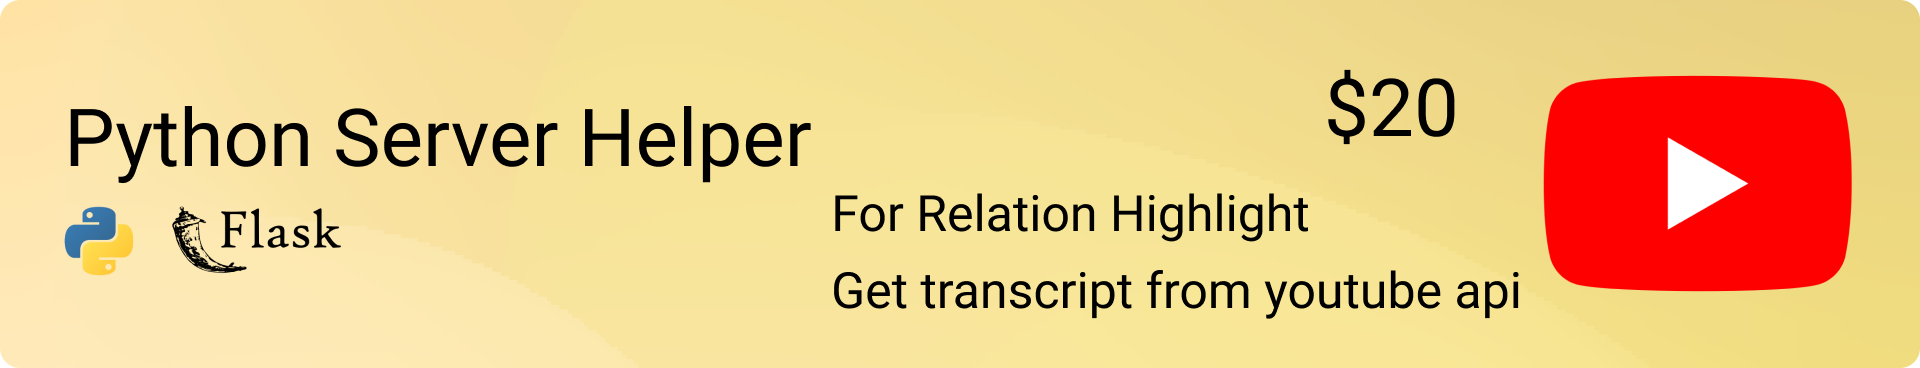
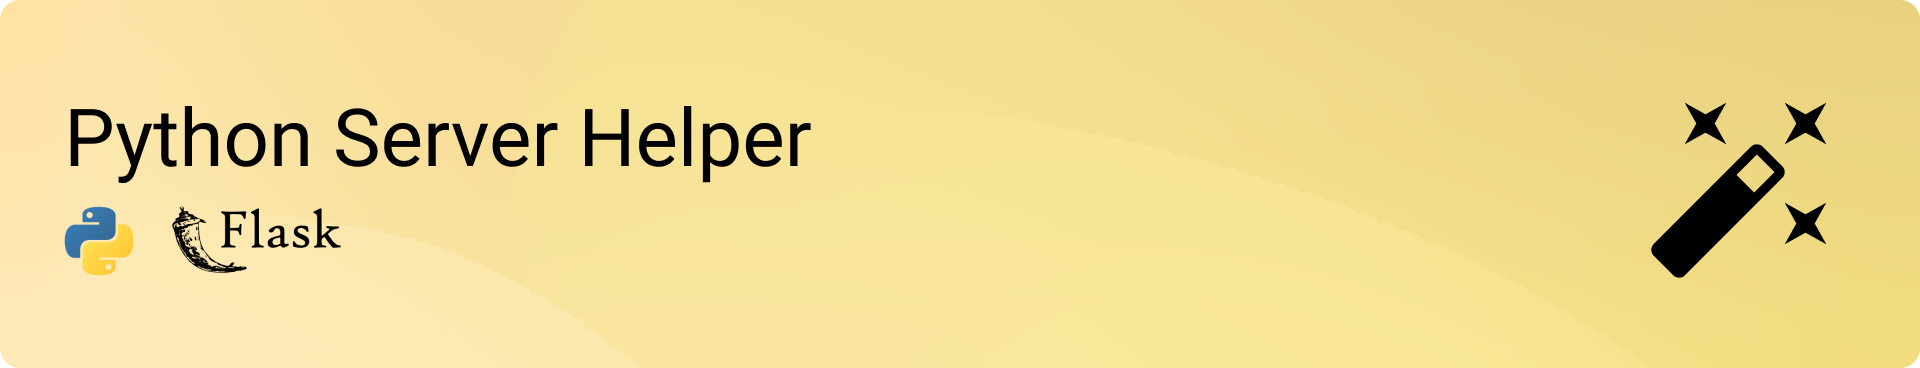
Update README

Changed region(s): [[0.4375, 0.1793, 0.9688, 0.8668], [0.4375, 0.538, 0.6875, 0.6576]]

diff --git a/README.md b/README.md
@@ -159,8 +159,9 @@ Relation Highlight feature - When you hover into some word, the related word wil
 ## B. TODO
 
 - [ ] Add discord chat bot using LLM for explaining the API, and just explain what you want to make, and they will give you the code.
-- [ ] Automation End to End Testing, test all APIs, runtime, sequential action, etc...
+- [ ] Automation Brute Force End to End Testing, test all APIs, runtime, sequential action, etc...
 - [ ] Add viseme support for chinese character
+- [ ] Making Hybrid engine timestamp detection
 - [ ] Let me know what you want from this package, the package architecture is scalable to make various feature, please write it on issues tab, or send me discord message @albirrkarim
 
 <br/>
@@ -173,20 +174,17 @@ Relation Highlight feature - When you hover into some word, the related word wil
 - [x] Batch API request for making the audio file for long article content. it will improve efficiency and user experience. [it for solve The delay of audio played and user gesture to trigger play must be close.](PROBLEMS.md#1-the-delay-of-audio-played-and-user-gesture-to-trigger-play-must-be-close)
 - [x] Add example text to speech with viseme lipsync on 3D avatar generated from [readyplayer.me](https://readyplayer.me). [see](https://vanilla-speech-highlight.vercel.app)
 - [x] Add viseme API for current spoken TTS, [see](https://vanilla-speech-highlight.vercel.app)
-- [x] Add vanilla js support, for those who dont use react, [see](https://vanilla-speech-highlight.vercel.app)
+- [x] Add vanilla js support, for those who don't use react, [see](https://vanilla-speech-highlight.vercel.app)
 - [x] Add highlight capability when play using audio file.
 - [x] Add fallback/prefer to audio file (.mp3/etc) when user doesn't have built in speech synthesis in their devices. or maybe prefer using audio file because the sound is better than robot like sound. [see](AUDIO_FILE.md)
 - [x] Docs integration text-to-speech with [Eleven Labs](https://elevenlabs.io/?from=partnermurray4444) API [see the demo web](https://react-speech-highlight.vercel.app)
 - [x] Integration with [React GPT Web Guide](https://github.com/albirrkarim/react-gpt-web-guide-docs) Package.
 - [x] Multi character support for non latin alphabet ( chinese (你好),
       russian (Привет), japanese (こんにちは), korean (안녕하세요), etc )
-- [x] Add language detection using chat gpt. [see](API.md#2-getlangforthistext)
-- [x] Add seeking by sentence or paragraph. [see](API.md#2b-interface)
-- [x] Add reading progress by word or sentence. [see](API.md#spokenhl)
-- [x] Adjust config while TTS playing. [see](API.md#controlhl)
-- [x] Custom Abbreviation Function. [see](API.md#1-tts-marker-markthewords)
+- [x] Add [language detection using LLM api](API.md#2-getlangforthistext)
+- [x] Add [seeking by sentence or paragraph](API.md#2b-interface), [reading progress by word or sentence](API.md#spokenhl), [Adjust config while TTS playing.](API.md#controlhl), [Custom Abbreviation Function](API.md#1-tts-marker-markthewords)
 - [x] Realiability: TTS that can't die, Test on any platform, Code Linting using eslint, Using [Typescript](https://www.typescriptlang.org/), [Tested (Prompt Test, Unit Test, Engine Test)](TEST.md)
-- [x] Add demo website. [see](https://react-speech-highlight.vercel.app)
+- [x] Add [demo website](https://react-speech-highlight.vercel.app)
 
 <br>
 <br>
@@ -500,17 +498,16 @@ The price is $150.
 
 <br/>
 
-### - Python Server for Doing YouTube Transcript Highlight
+### - Python as Helper
 
 ![Python Server](./img/python.png)
 
 The Python server is used as a helper for the package.
 
-Price is $20
+**Many Functionality:**
 
-**What you got**
-
-- [Python server](https://github.com/Web-XR-AI-lab/rshl_python_helper)
+- [Python server for youtube relation transcript highlight ($20)](https://github.com/Web-XR-AI-lab/rshl_python_helper)
+<!-- - [Python server for video auto transcript ($20)](https://github.com/Web-XR-AI-lab/rshl_python_helper) -->
 
 <br/>
 
@@ -524,11 +521,13 @@ They can read many PDF structure, and determine the sequential reading from left
 
 They can also read the image (highlight the image with some box) in the PDF file and determine the text in the image using LLM.
 
-Price is $3000 -->
+Price is $3000
 
 **What you got**
 
 - Demo website that include the plugin and the example use. (Coming soon)
+
+ -->
 
 <br/>
 
